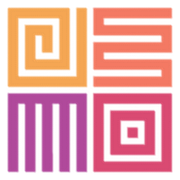
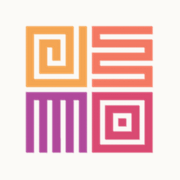
Painel instalável como app (PWA): manifesto, ícones e a página Instalar o app
Claude-Session: https://claude.ai/code/session_018JU9F1eZCoaX8VgQ3Ezi2y

diff --git a/components/pwa/InstallApp.tsx b/components/pwa/InstallApp.tsx
@@ -1,0 +1,50 @@
+'use client'
+// "Instalar o HouseArt" (/install): the browser's own prompt when it offers one (Chrome/Edge on Android
+// and desktop — kept by INSTALL_PROMPT_SCRIPT in the root layout), otherwise the steps of the device.
+// Opened as the installed app, it says so and offers to enter.
+import Link from 'next/link'
+import { useState, useSyncExternalStore } from 'react'
+import { Button } from '@/components/ds/Button'
+import { INSTALL_STEPS, platformOf, type InstallPlatform } from './install-core'
+
+interface PromptEvent extends Event { prompt: () => Promise<void>; userChoice: Promise<{ outcome: 'accepted' | 'dismissed' }> }
+type W = Window & { __haInstall?: PromptEvent | null; __haInstalled?: boolean }
+
+const subscribe = (cb: () => void) => { window.addEventListener('ha-install', cb); return () => window.removeEventListener('ha-install', cb) }
+const promptOf = () => (window as W).__haInstall ?? null
+const standaloneOf = () => (window as W).__haInstalled === true || window.matchMedia('(display-mode: standalone)').matches || (navigator as Navigator & { standalone?: boolean }).standalone === true
+const platformNow = (): InstallPlatform => platformOf(navigator.userAgent)
+
+export function InstallApp() {
+  const prompt = useSyncExternalStore(subscribe, promptOf, () => null)
+  const standalone = useSyncExternalStore(subscribe, standaloneOf, () => false)
+  const platform = useSyncExternalStore(subscribe, platformNow, () => 'desktop' as InstallPlatform)
+  const [busy, setBusy] = useState(false)
+
+  if (standalone) {
+    return (
+      <div className="ha-stack">
+        <p className="ha-login__lead">O HouseArt já está instalado neste aparelho.</p>
+        <Link href="/login" className="ha-btn ha-btn--ink ha-btn--md">Entrar</Link>
+      </div>
+    )
+  }
+
+  async function install() {
+    if (!prompt) return
+    setBusy(true)
+    try { await prompt.prompt(); await prompt.userChoice } finally { (window as W).__haInstall = null; window.dispatchEvent(new Event('ha-install')); setBusy(false) }
+  }
+
+  return (
+    <div className="ha-stack">
+      {prompt ? <Button variant="ink" size="md" loading={busy} onClick={() => void install()}>Instalar o app</Button> : null}
+      <div className="ha-stack ha-stack--2">
+        <span className="ha-field__label">{prompt ? 'Ou, pelo menu do navegador:' : platform === 'ios' ? 'No iPhone' : platform === 'android' ? 'No Android' : 'No computador'}</span>
+        <ol className="ha-install__steps">{INSTALL_STEPS[platform].map((s) => <li key={s}>{s}</li>)}</ol>
+      </div>
+      <p className="ha-login__lead">O app abre direto no seu painel, em tela cheia, e recebe os avisos de propostas, vendas e entregas.</p>
+      <Link href="/login" className="ha-link">Continuar no navegador</Link>
+    </div>
+  )
+}

diff --git a/app/layout.tsx b/app/layout.tsx
@@ -5,6 +5,7 @@ import './ds/tokens.css'
 import './ds/cells.css'
 import { antiFlashScript } from '@/lib/theme-routes'
 import { publicBaseUrl } from '@/lib/public-url'
+import { INSTALL_PROMPT_SCRIPT } from '@/components/pwa/install-core'
 
 // Fraunces (display) + Inter (UI), exposed as --font-fraunces / --font-inter
 // and consumed by --ha-font-display / --ha-font-ui (app/ds/tokens.css).
@@ -12,13 +13,16 @@ import { publicBaseUrl } from '@/lib/public-url'
 const fraunces = Fraunces({ subsets: ['latin'], variable: '--font-fraunces', style: ['normal', 'italic'], axes: ['opsz'], display: 'swap' })
 const inter = Inter({ subsets: ['latin'], variable: '--font-inter', display: 'swap' })
 
-export const viewport: Viewport = { width: 'device-width', initialScale: 1, viewportFit: 'cover' }
+export const viewport: Viewport = { width: 'device-width', initialScale: 1, viewportFit: 'cover', themeColor: '#FBFAF7' }
 
 export const metadata: Metadata = {
   // absolute Open Graph and canonical URLs for every page (audit 2026-10-25: shared links had relative images)
   metadataBase: new URL(publicBaseUrl()),
   title: 'HouseArt — Obras autenticadas',
   description: 'Certificação, proveniência e venda de obras de arte com escritura digital.',
+  // installed as an app from the browser (app/manifest.ts; iPhone reads these and app/apple-icon.png)
+  applicationName: 'HouseArt',
+  appleWebApp: { capable: true, title: 'HouseArt', statusBarStyle: 'default' },
   openGraph: { siteName: 'HouseArt', locale: 'pt_BR', type: 'website', images: [{ url: '/brand/marca_houseart_full_horiz_color.png', alt: 'HouseArt' }] },
 }
 
@@ -27,6 +31,8 @@ export default function RootLayout({ children }: { children: React.ReactNode }) 
     <html lang="pt-BR" className={`${fraunces.variable} ${inter.variable}`} suppressHydrationWarning>
       <head>
         <script dangerouslySetInnerHTML={{ __html: antiFlashScript() }} />
+        {/* keeps the browser's install prompt for /install (it can fire before React mounts) */}
+        <script dangerouslySetInnerHTML={{ __html: INSTALL_PROMPT_SCRIPT }} />
         {/* Material Symbols Rounded: no npm package; the ligature is rendered by components/ds/Icon.tsx. */}
         <link rel="preconnect" href="https://fonts.googleapis.com" />
         <link rel="preconnect" href="https://fonts.gstatic.com" crossOrigin="anonymous" />

diff --git a/components/pwa/install-core.ts b/components/pwa/install-core.ts
@@ -1,0 +1,17 @@
+// PWA install — PURE. Which instructions a device gets when the browser offers no install prompt.
+export type InstallPlatform = 'ios' | 'android' | 'desktop'
+
+export function platformOf(userAgent: string): InstallPlatform {
+  if (/iPhone|iPad|iPod/i.test(userAgent) || (/Macintosh/i.test(userAgent) && /Mobile/i.test(userAgent))) return 'ios'
+  if (/Android/i.test(userAgent)) return 'android'
+  return 'desktop'
+}
+
+export const INSTALL_STEPS: Record<InstallPlatform, string[]> = {
+  ios: ['Abra este endereço no Safari.', 'Toque em Compartilhar (o quadrado com a seta para cima).', 'Escolha "Adicionar à Tela de Início" e toque em Adicionar.'],
+  android: ['Abra este endereço no Chrome.', 'Toque no menu ⋮, no canto de cima.', 'Escolha "Instalar app" (ou "Adicionar à tela inicial").'],
+  desktop: ['Abra este endereço no Chrome ou no Edge.', 'Clique no ícone de instalar, no fim da barra de endereço.', 'Confirme em Instalar.'],
+}
+
+/** The script that keeps the browser's install prompt for the button (it may fire before React mounts). */
+export const INSTALL_PROMPT_SCRIPT = "window.addEventListener('beforeinstallprompt',function(e){e.preventDefault();window.__haInstall=e;window.dispatchEvent(new Event('ha-install'))});window.addEventListener('appinstalled',function(){window.__haInstall=null;window.__haInstalled=true;window.dispatchEvent(new Event('ha-install'))});"

diff --git a/app/manifest.ts b/app/manifest.ts
@@ -1,0 +1,26 @@
+// Web App Manifest (/manifest.webmanifest): the HouseArt panel installs as an app from the browser
+// (Android/desktop Chrome "Instalar", iPhone "Adicionar à Tela de Início"). One app for every profile —
+// the panel already opens on the home of the active profile. `start_url` is /login: signed in, it goes
+// straight to the panel; signed out, it asks to sign in (an installed app never lands on the public site).
+import type { MetadataRoute } from 'next'
+
+export default function manifest(): MetadataRoute.Manifest {
+  return {
+    id: '/',
+    name: 'HouseArt',
+    short_name: 'HouseArt',
+    description: 'Certificação, proveniência e venda de obras de arte com escritura digital.',
+    lang: 'pt-BR',
+    start_url: '/login',
+    scope: '/',
+    display: 'standalone',
+    orientation: 'portrait',
+    background_color: '#FBFAF7',
+    theme_color: '#FBFAF7',
+    icons: [
+      { src: '/pwa/icon-192.png', sizes: '192x192', type: 'image/png', purpose: 'any' },
+      { src: '/pwa/icon-512.png', sizes: '512x512', type: 'image/png', purpose: 'any' },
+      { src: '/pwa/maskable-512.png', sizes: '512x512', type: 'image/png', purpose: 'maskable' },
+    ],
+  }
+}

diff --git a/components/layout/ProfileSwitcher.tsx b/components/layout/ProfileSwitcher.tsx
@@ -90,6 +90,7 @@ export function ProfileSwitcher({ initials, label, display, avatarUrl = null, na
           <div className="ha-switcher__sep" />
           <Link role="menuitem" href={accountHref} className="ha-switcher__item" onClick={() => setOpen(false)}><Icon name="person" size={20} /><span>Minha conta</span></Link>
           {helpHref ? <Link role="menuitem" href={helpHref} className="ha-switcher__item" onClick={() => setOpen(false)}><Icon name="help" size={20} /><span>Ajuda</span></Link> : null}
+          <Link role="menuitem" href="/install" className="ha-switcher__item" onClick={() => setOpen(false)}><Icon name="install_mobile" size={20} /><span>Instalar o app</span></Link>
           <form action="/api/auth/logout" method="post">
             <button type="submit" role="menuitem" className="ha-switcher__item"><Icon name="logout" size={20} /><span>Sair</span></button>
           </form>

diff --git a/app/install/page.tsx b/app/install/page.tsx
@@ -1,0 +1,16 @@
+// "Instalar o HouseArt" — public page to send to anyone (the link the team shares): installs the panel
+// as an app on the phone or the computer (app/manifest.ts). Same entrance panel as the login.
+import { AuthShell } from '@/components/auth/AuthShell'
+import { InstallApp } from '@/components/pwa/InstallApp'
+import { randomWall } from '@/lib/public-content/paintings'
+import '@/components/pwa/install.css'
+
+export const metadata = { title: 'Instalar o app — HouseArt', description: 'Instale o HouseArt no celular ou no computador, direto pelo navegador.' }
+
+export default function InstallPage() {
+  return (
+    <AuthShell variant="claim" brandHeight={56} wall={randomWall()} title="Instalar o app" lead="O HouseArt vai para a tela inicial do celular, como um app, sem passar pela loja.">
+      <InstallApp />
+    </AuthShell>
+  )
+}

diff --git a/components/pwa/install-core.test.ts b/components/pwa/install-core.test.ts
@@ -1,0 +1,14 @@
+import { describe, expect, it } from 'vitest'
+import { INSTALL_STEPS, platformOf } from './install-core'
+
+describe('platformOf', () => {
+  it('reads the device from the user agent', () => {
+    expect(platformOf('Mozilla/5.0 (iPhone; CPU iPhone OS 17_0 like Mac OS X) Mobile/15E148')).toBe('ios')
+    expect(platformOf('Mozilla/5.0 (Macintosh; Intel Mac OS X 10_15_7) Version/17.0 Mobile/15E148 Safari/604.1')).toBe('ios')
+    expect(platformOf('Mozilla/5.0 (Linux; Android 14; Pixel 8) Chrome/120 Mobile')).toBe('android')
+    expect(platformOf('Mozilla/5.0 (Windows NT 10.0; Win64; x64) Chrome/120')).toBe('desktop')
+  })
+  it('has three steps for every platform', () => {
+    for (const steps of Object.values(INSTALL_STEPS)) expect(steps).toHaveLength(3)
+  })
+})

diff --git a/lib/public-routes.ts b/lib/public-routes.ts
@@ -20,6 +20,7 @@ const PUBLIC_EXACT = new Set<string>([
   '/sitemap.xml',
   '/verify',                     // public certificate verification: the code field (prefix '/verify/' covers the result)
   '/manifest.webmanifest',
+  '/install',                    // "Instalar o app" (PWA): the link the team sends
   '/design-system',              // the DS gallery (handoff Fase 1): no data, compared with the prototype
 ])
 

diff --git a/components/pwa/install.css b/components/pwa/install.css
@@ -1,0 +1,2 @@
+/* Instalar o app (/install): the device steps as a numbered list. */
+.ha-install__steps { list-style: decimal; margin: 0; padding-left: var(--ha-space-5); display: flex; flex-direction: column; gap: var(--ha-space-2); color: var(--ha-fg-body); font-size: var(--ha-text-body-sm); line-height: var(--ha-lh-body-sm); }

diff --git a/CLAUDE.md b/CLAUDE.md
@@ -108,6 +108,7 @@ verde → revisão adversarial → `git pull --rebase origin main` → `git merg
   claro; não expor o piso.
 
 ## Estado atual (o mais recente manda)
+- **2026-10-28 — Painel instalável como app (PWA).** Pedido do Moacy, no molde do Housebroker: `app/manifest.ts` (`/manifest.webmanifest`, um app só para todos os perfis, `start_url` `/login` — logado vai ao painel —, ícones em `public/pwa/` com fundo paper, `maskable` com folga; `app/apple-icon.png` ganhou fundo, iOS pinta transparência de preto), `appleWebApp` e `themeColor` no layout raiz, script que guarda o `beforeinstallprompt` (`INSTALL_PROMPT_SCRIPT`) e a página pública `/install` (painel do login + botão Instalar quando o navegador oferece, senão os passos do iPhone/Android/computador — `components/pwa/`), com entrada "Instalar o app" no menu da conta. Não instala o app Expo (que não roda na web): é o painel web em tela cheia. Sem cache offline: o `public/sw.js` segue só para push.
 - **2026-10-28 — Configurações, Ajuda e Sair saíram do menu lateral.** Pedido do Moacy: o rodapé do menu (`ha-sidebar__foot`, no `AppShell` e na gaveta do celular `ShellDrawer`) foi removido de todas as telas logadas; o menu da conta (`ProfileSwitcher`) tem Minha conta · **Ajuda** (`HELP_HREF`, hoje `/e/how-it-works` — as telas da área de ajuda vêm depois) · Sair. No caminho: o ícone dos itens do menu da conta ocupava metade da linha (`> span { flex: 1 }` pegava o `.ha-icon`); agora só o texto cresce.
 - **2026-10-28 — Explorar (web) só com o Feed.** Pedido do Moacy: saiu o seletor Feed · Descobrir e o baralho do Descobrir em `components/collector/ExploreScreen.tsx` (e o CSS `ha-deck`); `/explore?view=discover` antigo cai no feed; a lupa e os favoritos ficam na linha dos filtros, à direita; o estado vazio de Favoritos aponta para Explorar. `deckCounter`/`discoverOrder` seguem em `explore-core.ts` (usados nos testes). O app nativo continua com o Descobrir.
 - **2026-10-28 — Criar conta, Recuperar senha e Nova senha com o painel do login.** `/signup` (todas as etapas: é uma página só), `/signup/welcome`, `/recover-password` e `/reset-password` usam a `AuthShell` `claim` com pintura sorteada (`randomWall()`), marca 56 px e crédito; no cadastro o resumo do plano (`SignupPlanAside`, com os chips de troca) ocupa o lugar da frase (`foot` agora vale também no `claim`, e o bloco só fica `aria-hidden` sem ele). O Cisne de Hilma af Klint saiu do cadastro (`public/img/signup-art.png` ficou sem uso). No celular o painel do cadastro é `static` — o `.ha-login__art--wall` precisa seguir `relative`, senão a pintura e o véu cobrem o formulário (corrigido em `signup.css`).
